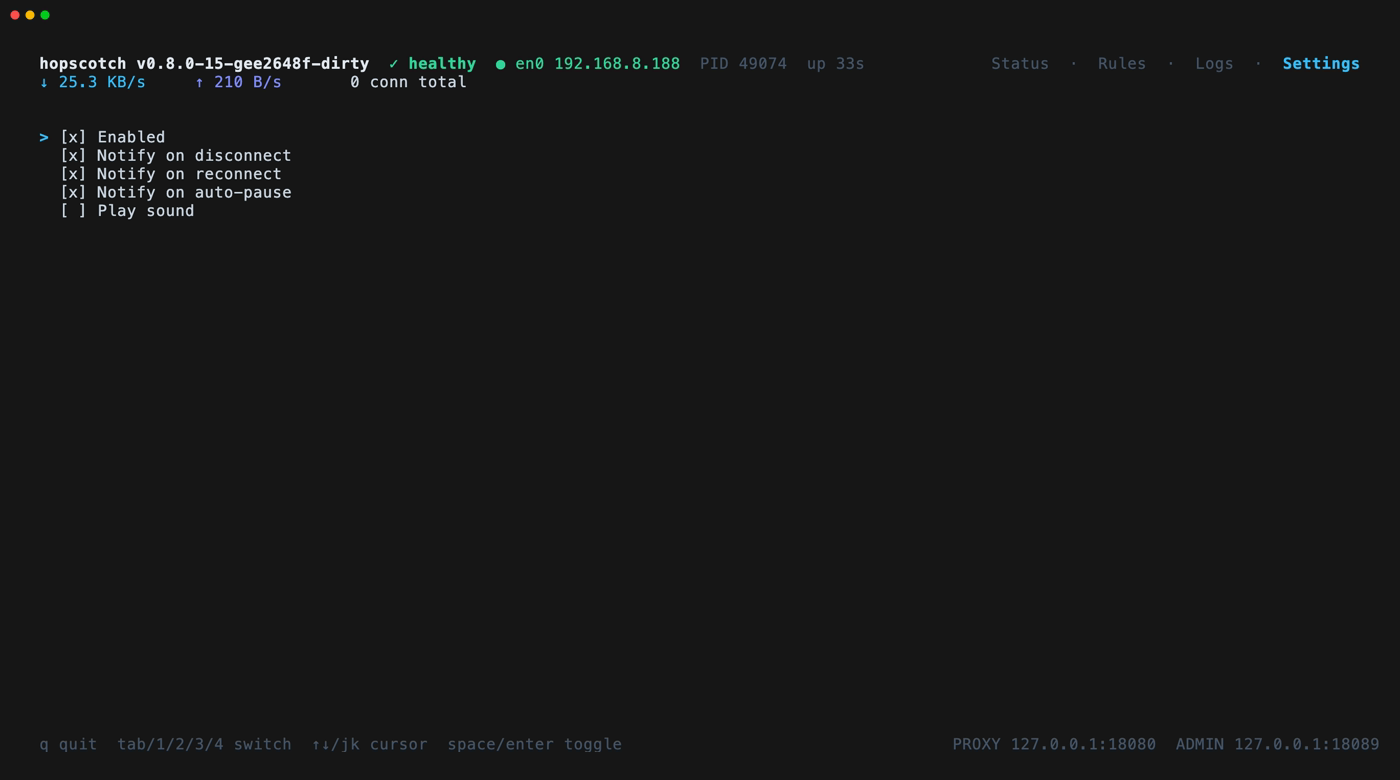
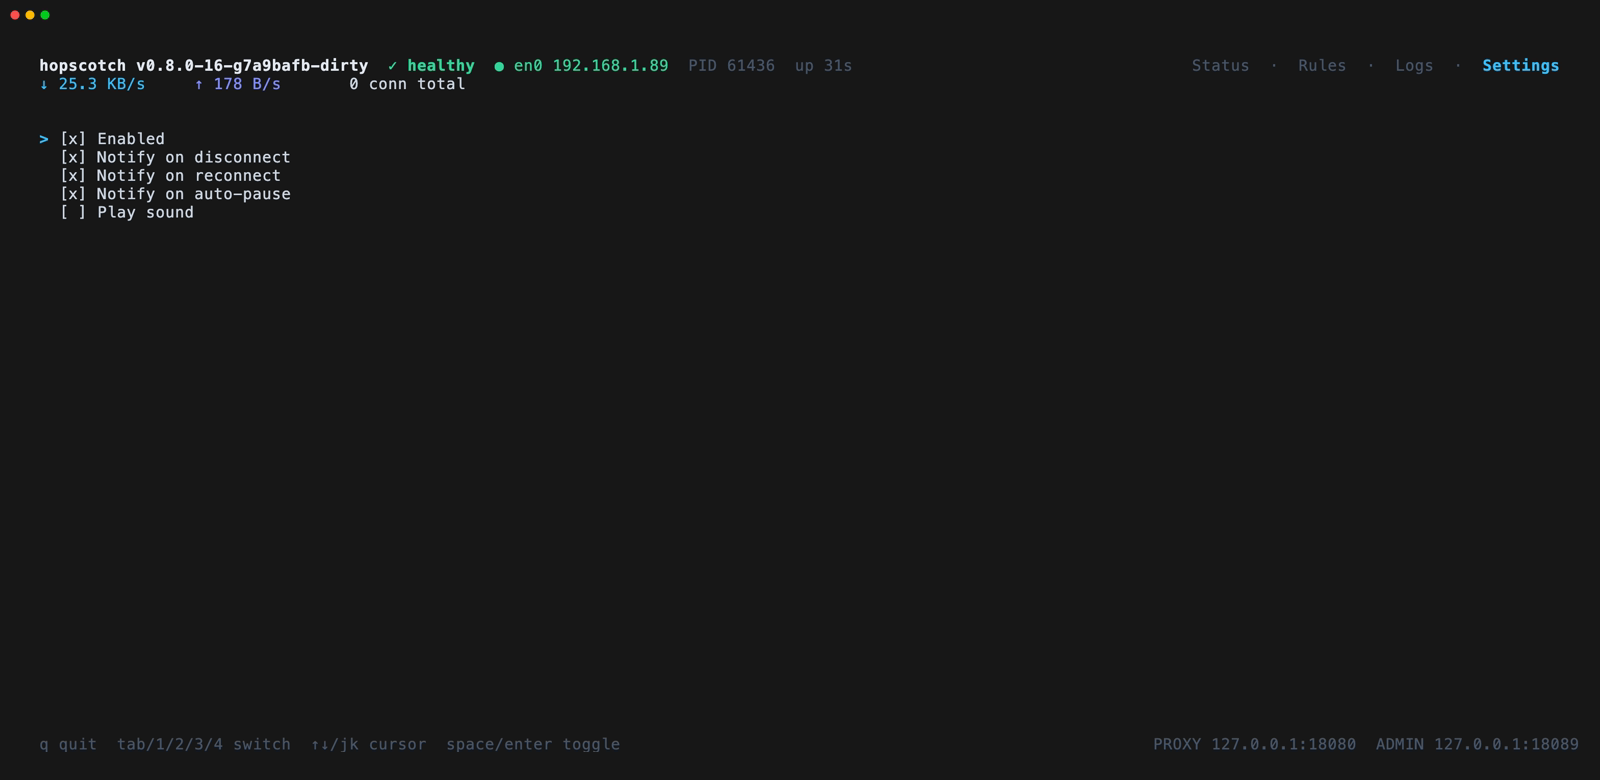
fix: shorten demo fixture hostnames so the TUI Host column stops wrapping
*.hopscotch-demo.internal was long enough (with the port suffix) to
overflow the TUI's elastic Host column at a typical terminal width,
wrapping tunnel names mid-word. Switched to *.hs.test — shorter, and
.test is the RFC 2606/IANA-reserved TLD for non-production use, which
reads as obviously fake anyway. Also widened capture_tui.tape's
terminal a bit for extra margin. Regenerated all 8 screenshots.

diff --git a/docs/AGENTS.md b/docs/AGENTS.md
@@ -10,7 +10,7 @@ Design/reference docs and visual assets: the canonical UI-parity spec (`DESIGN.m
 
 ## Local Contracts
 
-- TUI/web-UI screenshots (`tui-*.png`, `ui-*.png`) are real captures from a fully synthetic fixture — regenerate all of them with `scripts/demo/screenshots.sh all` (see `scripts/AGENTS.md`), never by hand-editing or hand-drawing. It builds a throwaway local sshd + VPN stub + dummy HTTP target under `*.hopscotch-demo.internal` (no real infrastructure or data), drives real traffic through it, and captures via `vhs` (TUI) and Playwright (web UI). Architecture/flow diagrams (`arch-overview.svg`, `flow-connection.svg`, `shared-proxy.svg`, `shell-demo.svg`, `logo.svg`) are the exception and stay hand-crafted SVGs. Whenever a screenshot changes, update it in **both** this directory and `internal/admin/ui/docs` (the served copy, `scripts/demo/screenshots.sh` does this automatically) — they must stay identical.
+- TUI/web-UI screenshots (`tui-*.png`, `ui-*.png`) are real captures from a fully synthetic fixture — regenerate all of them with `scripts/demo/screenshots.sh all` (see `scripts/AGENTS.md`), never by hand-editing or hand-drawing. It builds a throwaway local sshd + VPN stub + dummy HTTP target under `*.hs.test` (no real infrastructure or data), drives real traffic through it, and captures via `vhs` (TUI) and Playwright (web UI). Architecture/flow diagrams (`arch-overview.svg`, `flow-connection.svg`, `shared-proxy.svg`, `shell-demo.svg`, `logo.svg`) are the exception and stay hand-crafted SVGs. Whenever a screenshot changes, update it in **both** this directory and `internal/admin/ui/docs` (the served copy, `scripts/demo/screenshots.sh` does this automatically) — they must stay identical.
 - `DESIGN.md` is the single canonical source for TUI/web UI parity — an undocumented difference between the two UIs is a bug (see `internal/tui/AGENTS.md`, `internal/admin/ui/AGENTS.md`).
 - `lifecycle.md`'s mermaid diagram currently predates pause/resume, the PTY-poke (`pty_poke_interval`), and persisted paused-state (`internal/state.PausedTracker`) — needs an update pass; not currently accurate for those flows (see `internal/tunnel/AGENTS.md`).
 - `API.md` documents every route registered in `internal/admin/server.go`'s `ListenAndServe` — when a route is added, removed, or its request/response shape changes, update `API.md` in the same change (see `internal/admin/AGENTS.md`).

diff --git a/scripts/AGENTS.md b/scripts/AGENTS.md
@@ -12,7 +12,7 @@ Operational scripts not part of the built binary.
 ## Local Contracts
 
 - Use this script (not manual log-watching) when debugging VPN/tunnel reconnect timing — see `internal/vpn/AGENTS.md`.
-- `demo/screenshots.sh {setup|warm|capture|teardown|all}` is the only supported way to regenerate `docs/tui-*.png`/`docs/ui-*.png` — see `docs/AGENTS.md`. It builds a fully synthetic fixture (throwaway local sshd, a VPN stub binary, a dummy HTTP target, fake hostnames under `*.hopscotch-demo.internal` aliased to `127.0.0.1` via a temporary, clearly-marked `/etc/hosts` block) so hopscotch really connects, really pauses, and really moves bytes — no real infrastructure or data, no hand-drawn mocks. Captures via `vhs` (real terminal) and Playwright (real browser). `teardown` (which `all` always runs, even on failure, via a top-level `trap`) removes the `/etc/hosts` block and kills every spawned process — if a run is interrupted before writing its state file, check for orphaned `sshd`/`python3` processes and a leftover `# hopscotch-demo BEGIN/END` block in `/etc/hosts` before re-running.
+- `demo/screenshots.sh {setup|warm|capture|teardown|all}` is the only supported way to regenerate `docs/tui-*.png`/`docs/ui-*.png` — see `docs/AGENTS.md`. It builds a fully synthetic fixture (throwaway local sshd, a VPN stub binary, a dummy HTTP target, fake hostnames under `*.hs.test` aliased to `127.0.0.1` via a temporary, clearly-marked `/etc/hosts` block) so hopscotch really connects, really pauses, and really moves bytes — no real infrastructure or data, no hand-drawn mocks. Captures via `vhs` (real terminal) and Playwright (real browser). `teardown` (which `all` always runs, even on failure, via a top-level `trap`) removes the `/etc/hosts` block and kills every spawned process — if a run is interrupted before writing its state file, check for orphaned `sshd`/`python3` processes and a leftover `# hopscotch-demo BEGIN/END` block in `/etc/hosts` before re-running.
 - Requires `vhs`+`ttyd` (`brew install vhs`) and Playwright with its Chromium browser already available on the machine — both are one-time setup, not re-checked by the script.
 
 ## Work Guidance
